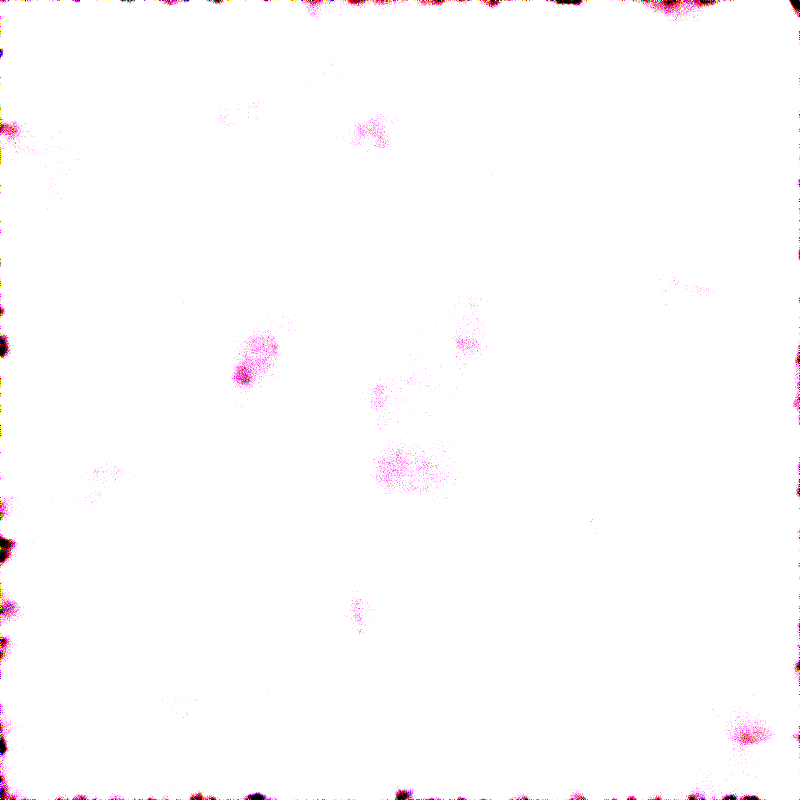
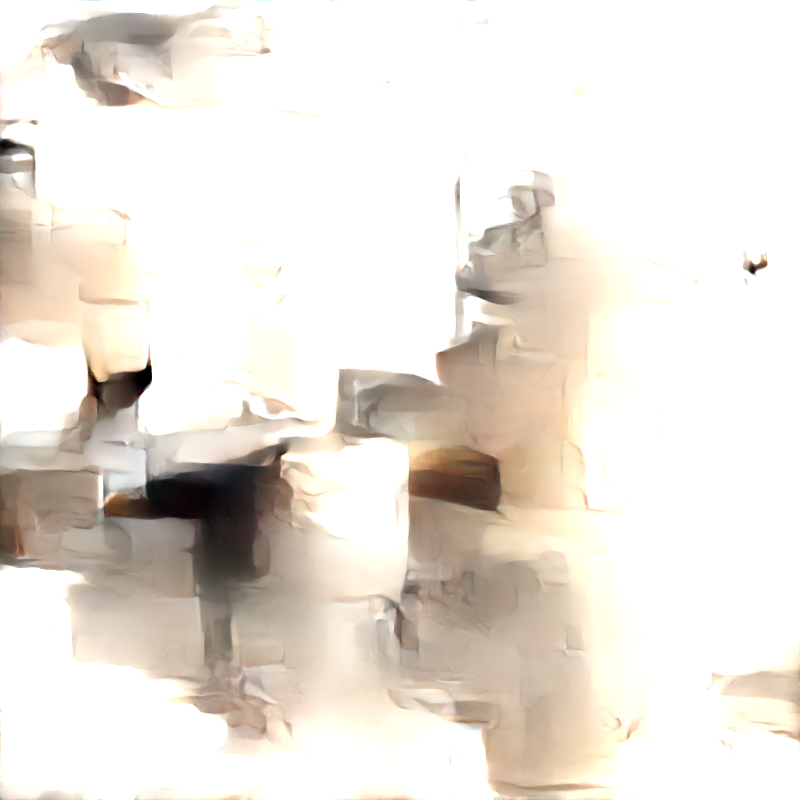
Added photoncube_preprocess.py file

diff --git a/diffusion/photoncube_preprocess.py b/diffusion/photoncube_preprocess.py
@@ -1,0 +1,81 @@
+# photoncube_preprocess.py
+import numpy as np
+import torch
+
+try:
+    from visionsim.emulate.spc import spc_avg_to_rgb
+    VISIONSIM_AVAILABLE = True
+except ImportError:
+    VISIONSIM_AVAILABLE = False
+
+
+def load_photoncube(path: str):
+    return np.load(path, mmap_mode="r")
+
+
+def naive_sum_preprocess(
+    cube: np.ndarray,
+    num_frames: int = 1024,
+    average: bool = False,
+):
+    # take last frames
+    cube = cube[:, :, -num_frames:]
+
+    # unpack bit-packed data along width axis
+    cube = np.unpackbits(cube, axis=2)
+
+    # sum across time dimension
+    image = cube.sum(axis=2)
+
+    if average:
+        image = image / num_frames
+
+    return image.astype(np.float32)
+
+
+def preprocess_photoncube(
+    cube: np.ndarray,
+    num_frames: int = 1024,
+    average: bool = False,
+    invert_response: bool = True,
+    invert_response_factor: float = 0.5,
+):
+    image = naive_sum_preprocess(cube, num_frames=num_frames, average=average)
+
+    if invert_response:
+        if not VISIONSIM_AVAILABLE:
+            raise ImportError("visionsim is required for invert_response=True")
+
+        image = spc_avg_to_rgb(image, factor=invert_response_factor)
+
+    return image
+
+
+def photoncube_file_to_tensor(
+    path: str,
+    num_frames: int = 1024,
+    average: bool = False,
+    invert_response: bool = True,
+    invert_response_factor: float = 0.5,
+):
+    cube = load_photoncube(path)
+    image = preprocess_photoncube(
+        cube,
+        num_frames=num_frames,
+        average=average,
+        invert_response=invert_response,
+        invert_response_factor=invert_response_factor,
+    )
+
+    # normalize to [0,1]
+    image = image - image.min()
+    if image.max() > 0:
+        image = image / image.max()
+
+    # convert to torch tensor (C, H, W)
+    if image.ndim == 2:
+        image = np.stack([image] * 3, axis=0)
+    else:
+        image = image.transpose(2, 0, 1)
+
+    return torch.from_numpy(image).float()

diff --git a/diffusion/sample.py b/diffusion/sample.py
@@ -41,22 +41,6 @@ def main() -> None:
         nrow=max(1, int(math.sqrt(num_samples))),
     )
 
-    images = sample_ddim(
-        model,
-        scheduler,
-        num_samples,
-        MODEL_CONFIG["im_size"],
-        MODEL_CONFIG["im_channels"],
-        DEVICE,
-        num_inference_steps=250,
-    )
-
-    save_image_grid(
-        images,
-        generated_samples_path("ddim"),
-        nrow=max(1, int(math.sqrt(num_samples))),
-    )
-
 
 if __name__ == "__main__":
     main()

diff --git a/diffusion/config.py b/diffusion/config.py
@@ -43,7 +43,7 @@ TRAIN_CONFIG = {
     "hf_dataset_revision": "main",
 
     "batch_size": 1,
-    "num_epochs": 50,
+    "num_epochs": 500,
     "lr": 1e-4,
     "num_workers": 2,
 

diff --git a/diffusion/diffusion.py b/diffusion/diffusion.py
@@ -114,7 +114,7 @@ def sample_ddim(
     image_size: int,
     channels: int,
     device: torch.device,
-    num_inference_steps: int = 50,
+    num_inference_steps: int = 250,
     eta: float = 0.0
 ) -> torch.Tensor:
     model.eval()